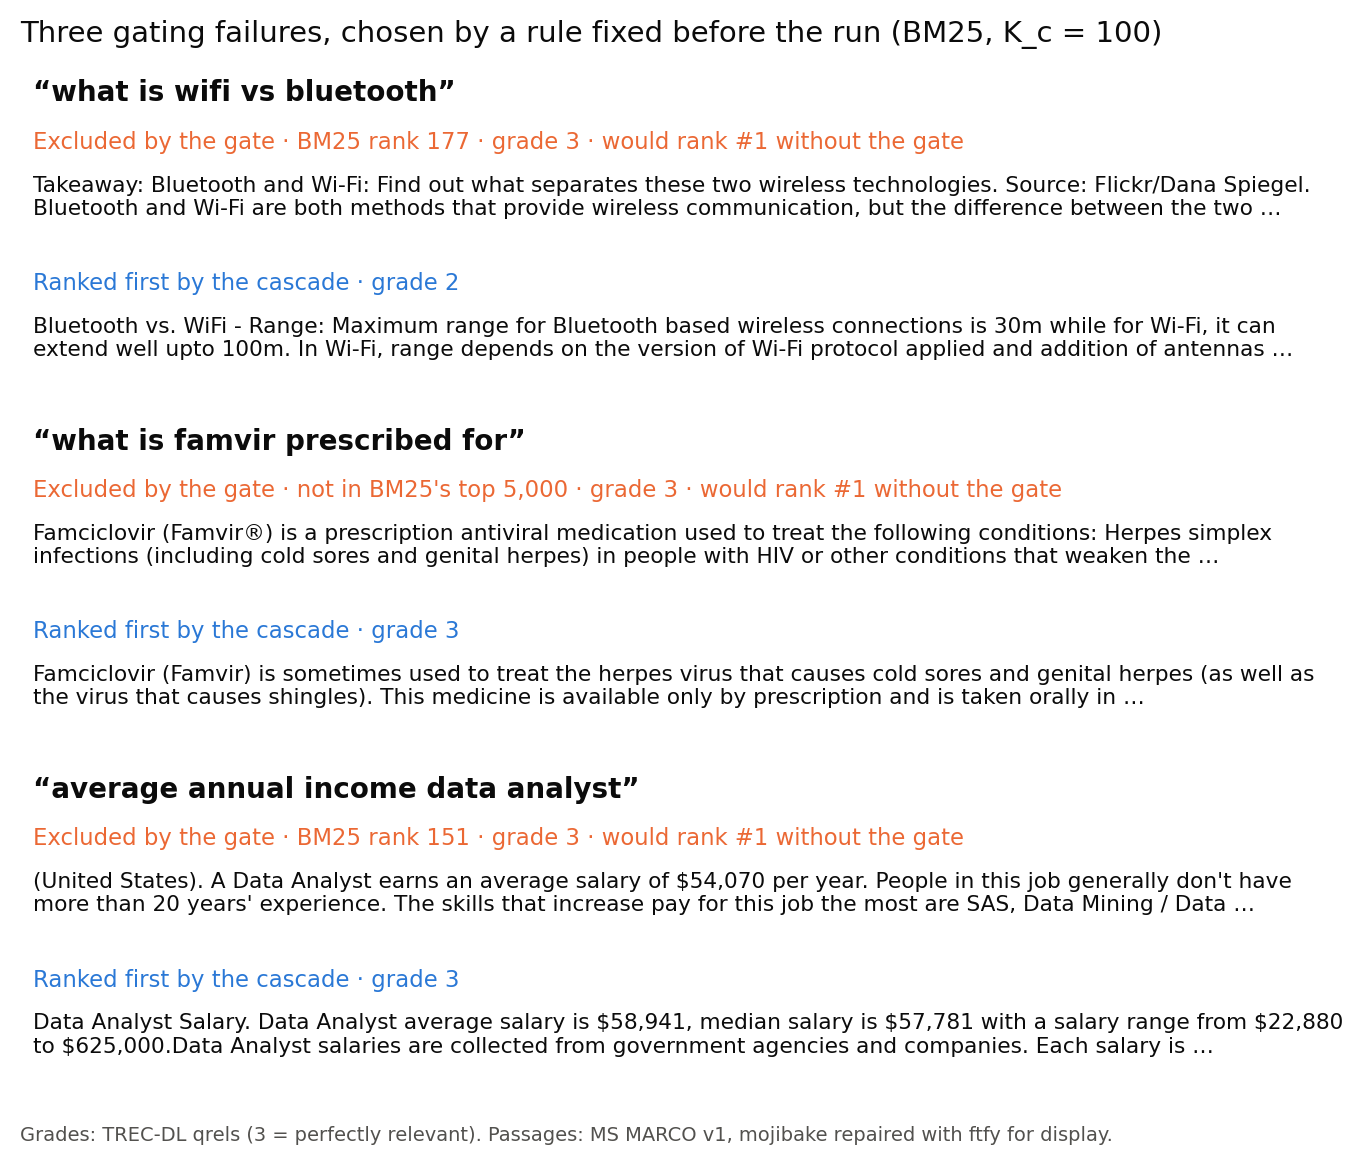
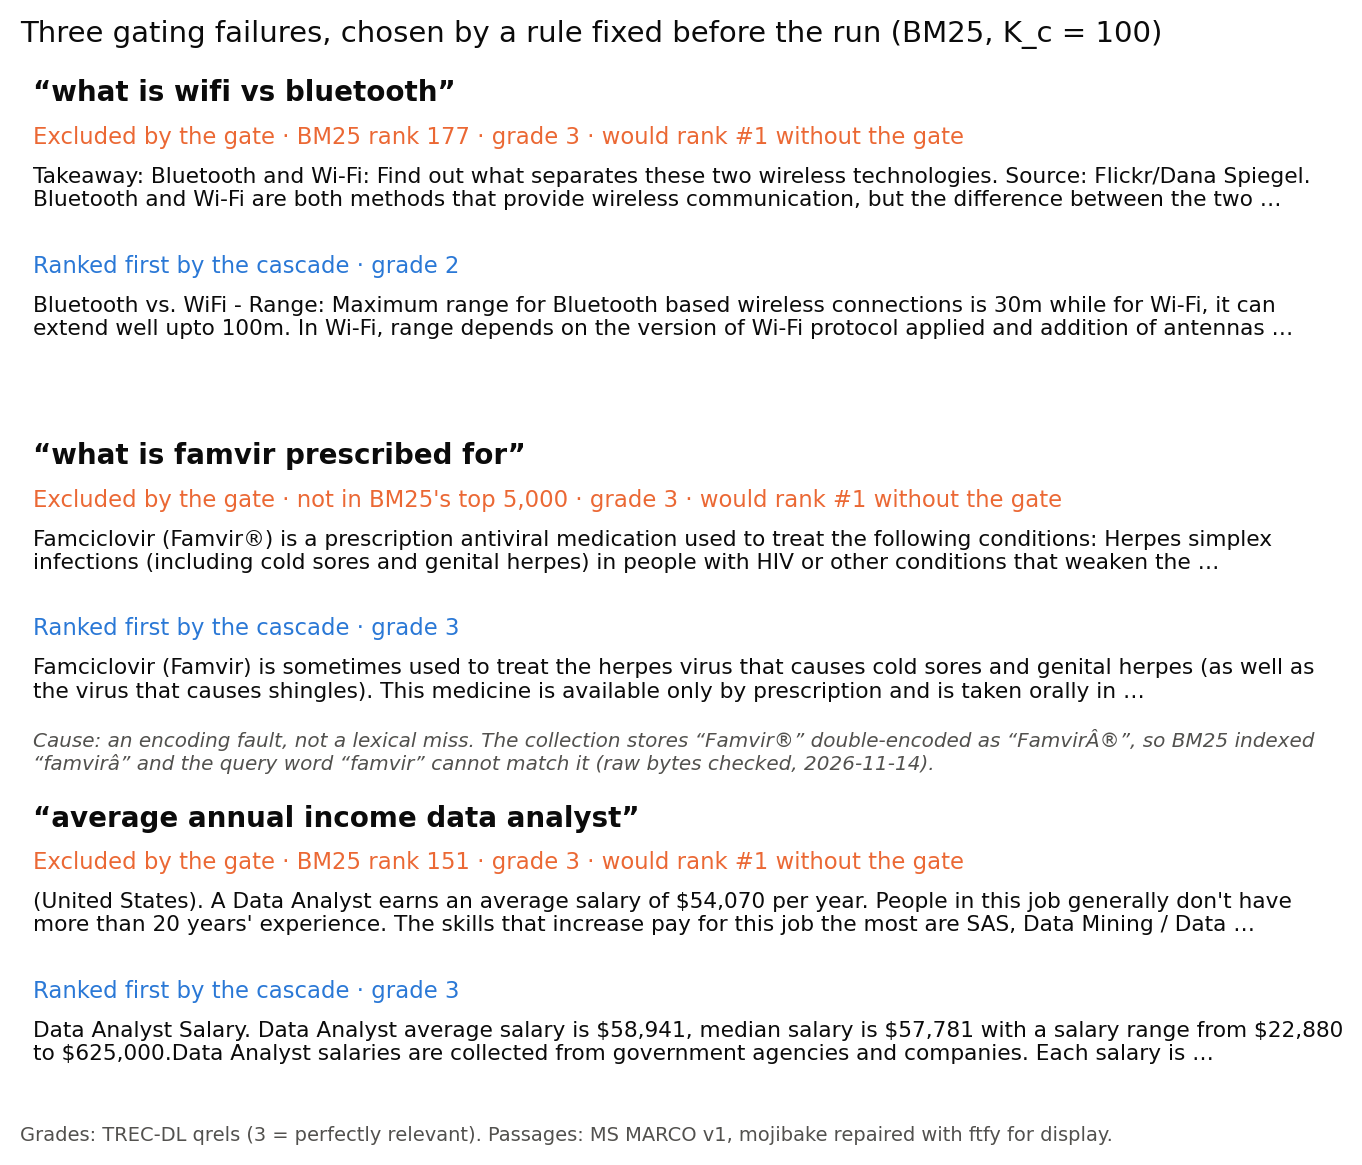
results: the famvir gating failure is an encoding fault; figure and log say so
Raw MS MARCO bytes for passage 8117090 show Famvir double-encoded as
FamvirÂ®, so BM25 indexed famvirâ and the query word famvir cannot match.
The pre-selected example stays; its cause is stated in the figure and the
design log.

diff --git a/docs/design_log.md b/docs/design_log.md
@@ -1673,4 +1673,36 @@ miss.
 
 ---
 
+## 2026-11-14 (famvir) — The famvir gating failure is an encoding fault in the collection (Shubham)
+
+The open question from the 2026-11-13 and 2026-11-14 (outsiders) entries is
+settled. The raw MS MARCO line for passage 8117090 reads
+
+    b'8117090\tFamciclovir (Famvir\xc3\x82\xc2\xae) is a prescription antiviral ...'
+
+That is "Famvir®" encoded as UTF-8 twice: "FamvirÂ®". Lucene's standard
+tokenizer, which the Pyserini BM25 index uses, treats "Â" as a letter and "®"
+as a word break, so the indexed word is "famvirâ". The query word "famvir"
+cannot match it. Nothing else in the passage carries the query: "Famciclovir"
+is a different word, and "prescription" does not stem to "prescribed". So BM25
+put it below rank 5,000, while dpr's subword encoder still retrieved it.
+
+**Decision.** The example stays. The selection rule was fixed before the run,
+and swapping an example for a better story is what the rule exists to prevent.
+Its cause is stated instead:
+- `figures/gating_examples.png` carries the note under example 2;
+- `figures/data/gating_examples.csv` has it in `note`.
+
+The report and video should present it as a third kind of gating failure, next
+to the two passages bm25 ranked just below the cutoff (ranks 151 and 177): **a
+data-quality failure**. The gate inherits whatever the first stage cannot read.
+It is not evidence about lexical matching.
+
+One consequence is worth a sentence in the threats section. MS MARCO's encoding
+faults are known, and ir_datasets repairs them at read time, but the BM25 index
+was built from the raw text. Some fraction of bm25's gating failures may share
+this cause. It has not been measured; this is one confirmed case among 140.
+
+---
+
 <!-- next entry below -->
